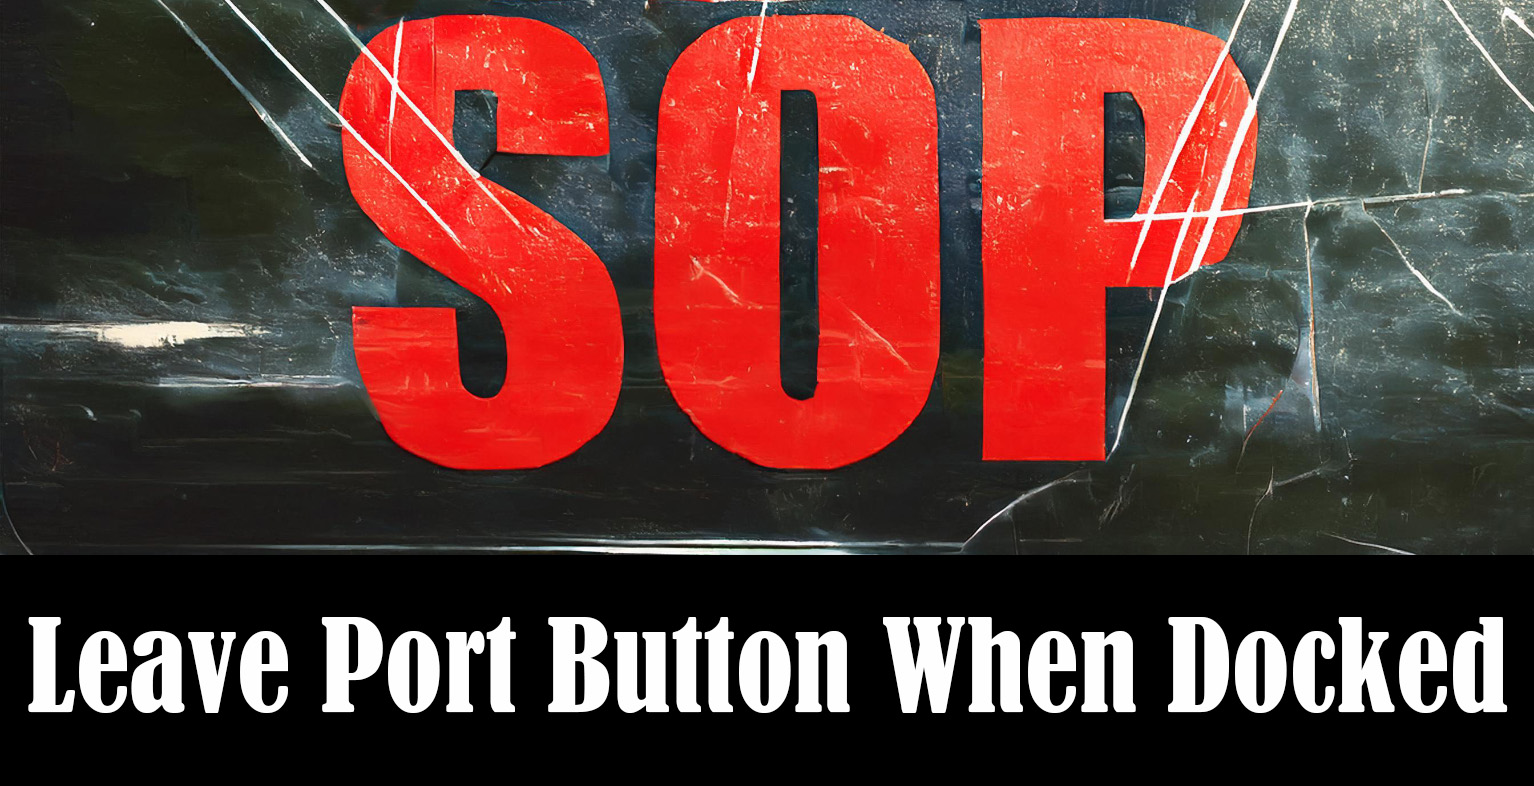
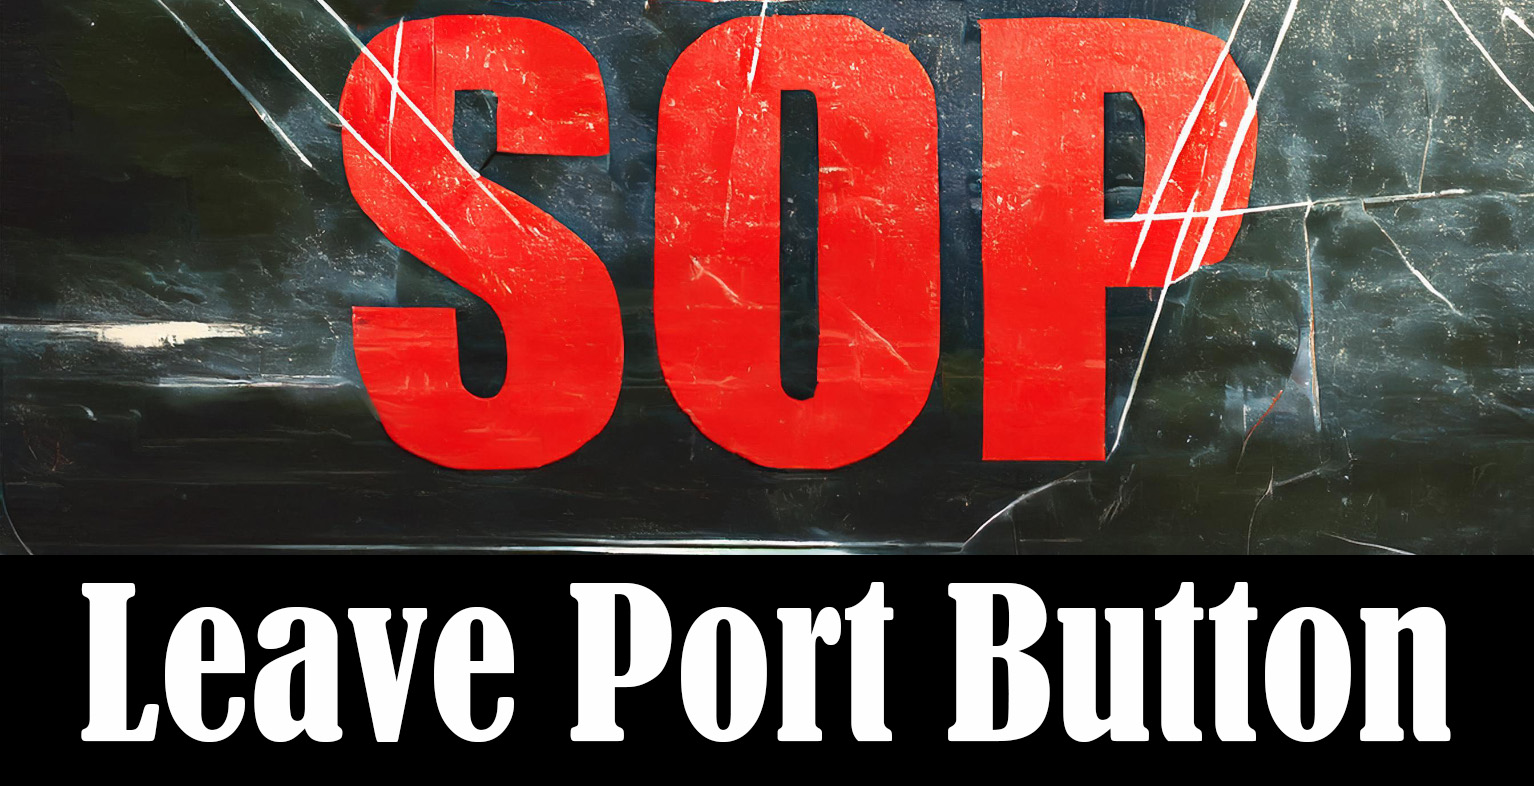
Version update

Changed region(s): [[0.0, 0.7328, 0.9804, 0.9466]]

diff --git a/UBOATSOP_AircraftCrashDive/Source/Main.cs b/UBOATSOP_AircraftCrashDive/Source/Main.cs
@@ -104,7 +104,7 @@ public class UBOATSOP_AircraftCrashDive : BackgroundTaskBase
                 var aircraft = (Aircraft)entity;
                 //var id = aircraft.GetInstanceID();
                 Debug.Log($"UBOATSOP_AircraftCrashDive ShipOnObservationAdded *** AIRCRAFT {aircraft.Name} ActiveEngines {aircraft.ActiveEngines} enabled {aircraft.enabled} FoldedUp {aircraft.FoldedUp} HasWorkingPropellers {aircraft.HasWorkingPropellers} isActiveAndEnabled {aircraft.isActiveAndEnabled} IsAwaken {aircraft.IsAwaken}");
-                if (!playerShipProxy.CurrentShip.Docked && !playerShipProxy.CurrentShip.SubmergedOrGoingToSubmerge && !aircraft.FoldedUp)
+                if (!playerShipProxy.CurrentShip.Docked && !playerShipProxy.CurrentShip.SubmergedOrGoingToSubmerge && !aircraft.FoldedUp && !playerShipProxy.CurrentShip.Alarmed)
                 {
                     CrashDive(DepthPreset.MaxSafeDepth);
                 }

diff --git a/UBOATSOP_AircraftCrashDive/Source/version.cs b/UBOATSOP_AircraftCrashDive/Source/version.cs
@@ -1,1 +1,1 @@
-static class UBOATSOP_AircraftCrashDive_Constants { public const string Version = "2024.1.12.20"; }
+static class UBOATSOP_AircraftCrashDive_Constants { public const string Version = "2024.1.13.23"; }

diff --git a/UBOATSOP_CrewPriorities/Source/version.cs b/UBOATSOP_CrewPriorities/Source/version.cs
@@ -1,1 +1,1 @@
-static class UBOATSOP_CrewPriorities_Constants { public const string Version = "2024.1.12.36"; }
+static class UBOATSOP_CrewPriorities_Constants { public const string Version = "2024.1.13.37"; }

diff --git a/UBOATSOP_LeavePortButton/Source/version.cs b/UBOATSOP_LeavePortButton/Source/version.cs
@@ -1,1 +1,1 @@
-static class UBOATSOP_LeavePortButton_Constants { public const string Version = "2024.1.12.53"; }
+static class UBOATSOP_LeavePortButton_Constants { public const string Version = "2024.1.13.58"; }

diff --git a/UBOATSOP_TonnageSunkProgress/Source/version.cs b/UBOATSOP_TonnageSunkProgress/Source/version.cs
@@ -1,1 +1,1 @@
-static class UBOATSOP_TonnageSunkProgress_Constants { public const string Version = "2024.1.12.5"; }
+static class UBOATSOP_TonnageSunkProgress_Constants { public const string Version = "2024.1.13.6"; }

diff --git a/UBOATSOP_TurnOnCompressor/Source/version.cs b/UBOATSOP_TurnOnCompressor/Source/version.cs
@@ -1,1 +1,1 @@
-static class UBOATSOP_TurnOnCompressor_Constants { public const string Version = "2024.1.12.16"; }
+static class UBOATSOP_TurnOnCompressor_Constants { public const string Version = "2024.1.13.17"; }

diff --git a/UBOATSOP_TurnOnRedLight/Source/version.cs b/UBOATSOP_TurnOnRedLight/Source/version.cs
@@ -1,1 +1,1 @@
-static class UBOATSOP_TurnOnRedLight_Constants { public const string Version = "2024.1.12.14"; }
+static class UBOATSOP_TurnOnRedLight_Constants { public const string Version = "2024.1.13.15"; }